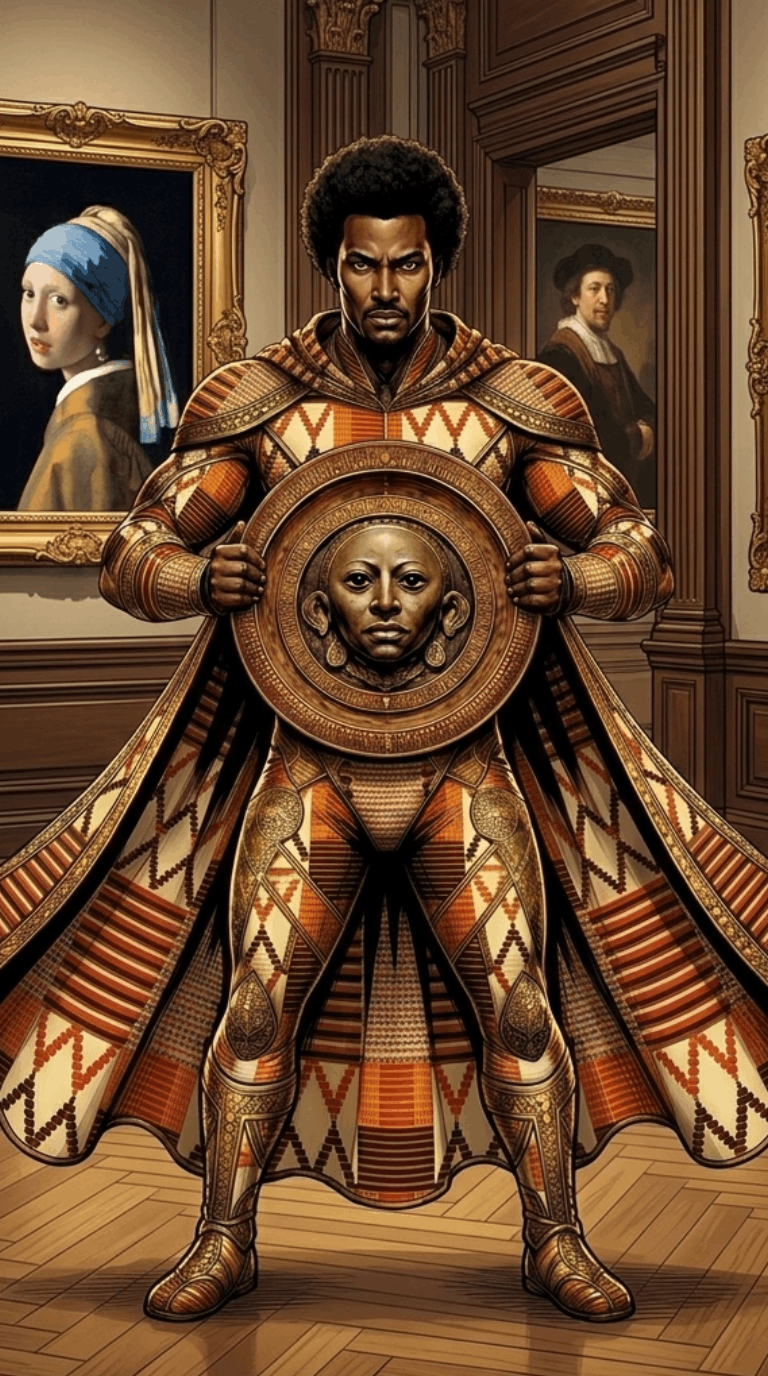
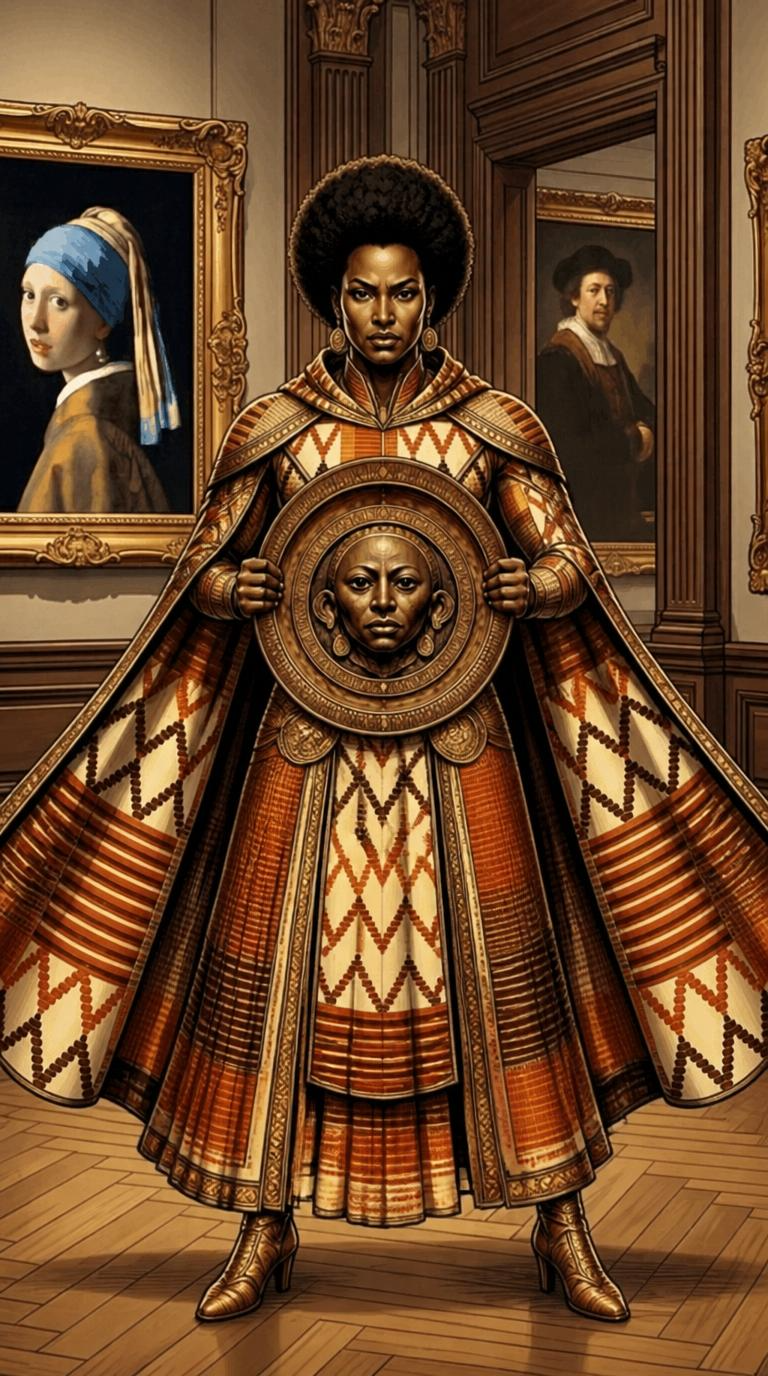
feat: reset okpele timer for each question

diff --git a/src/app/savoirs/sato-challenge/page.tsx b/src/app/savoirs/sato-challenge/page.tsx
@@ -179,6 +179,10 @@ function SatoChallengeContent() {
 
   // --- TIMER LOGIC ---
   useEffect(() => {
+    setTimeLeft(64);
+  }, [qIndex]);
+
+  useEffect(() => {
     if (timeLeft <= 0 || isFinished || showExplanation || view !== "ritual") return;
     const timer = setInterval(() => setTimeLeft(p => p - 1), 1000);
     return () => clearInterval(timer);
